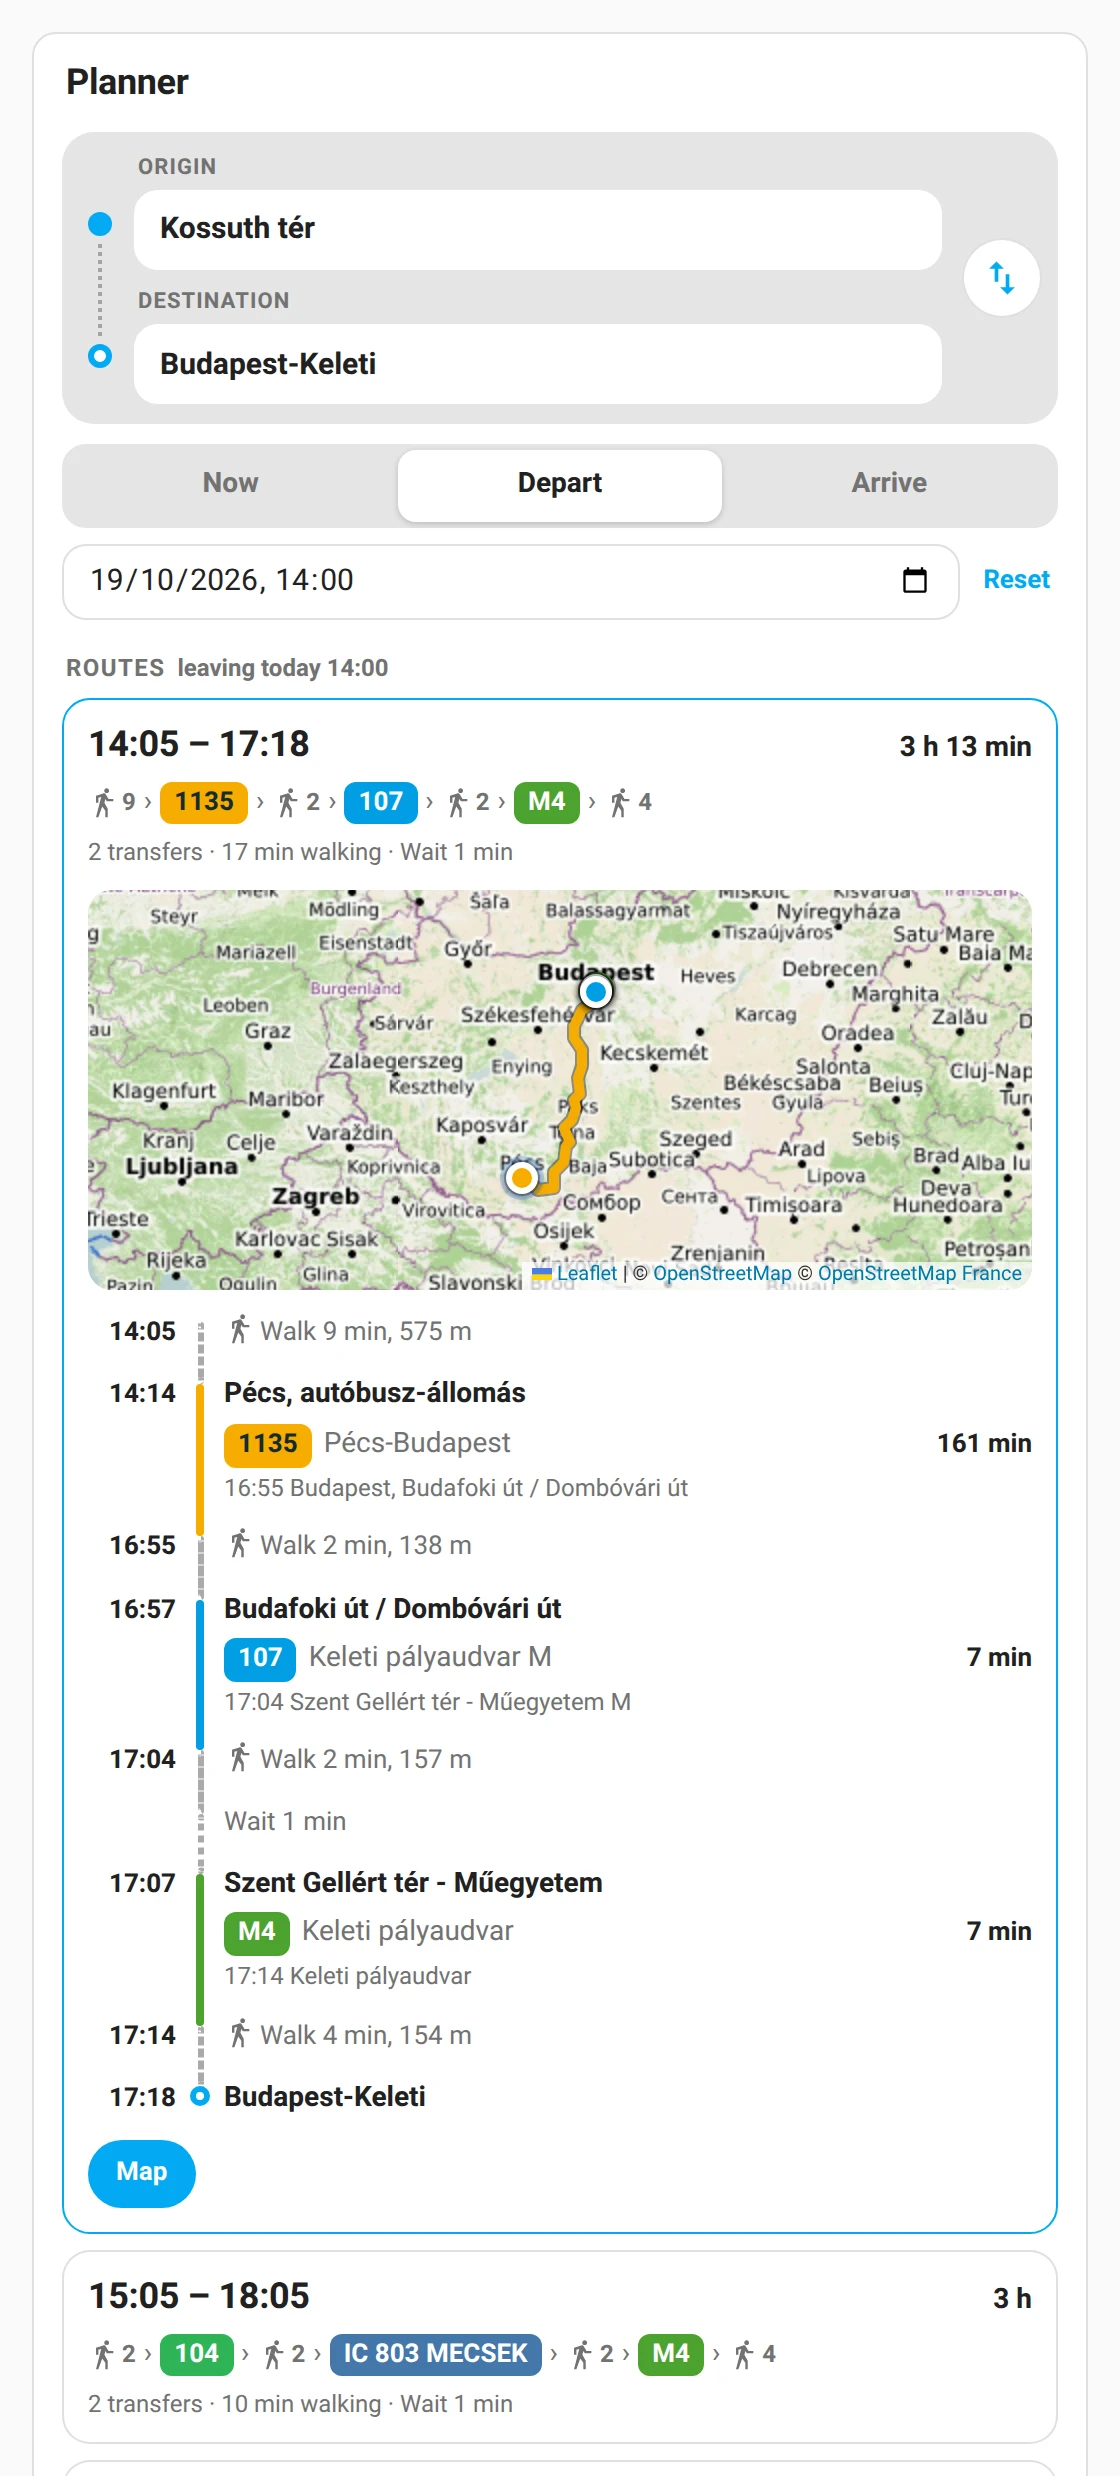
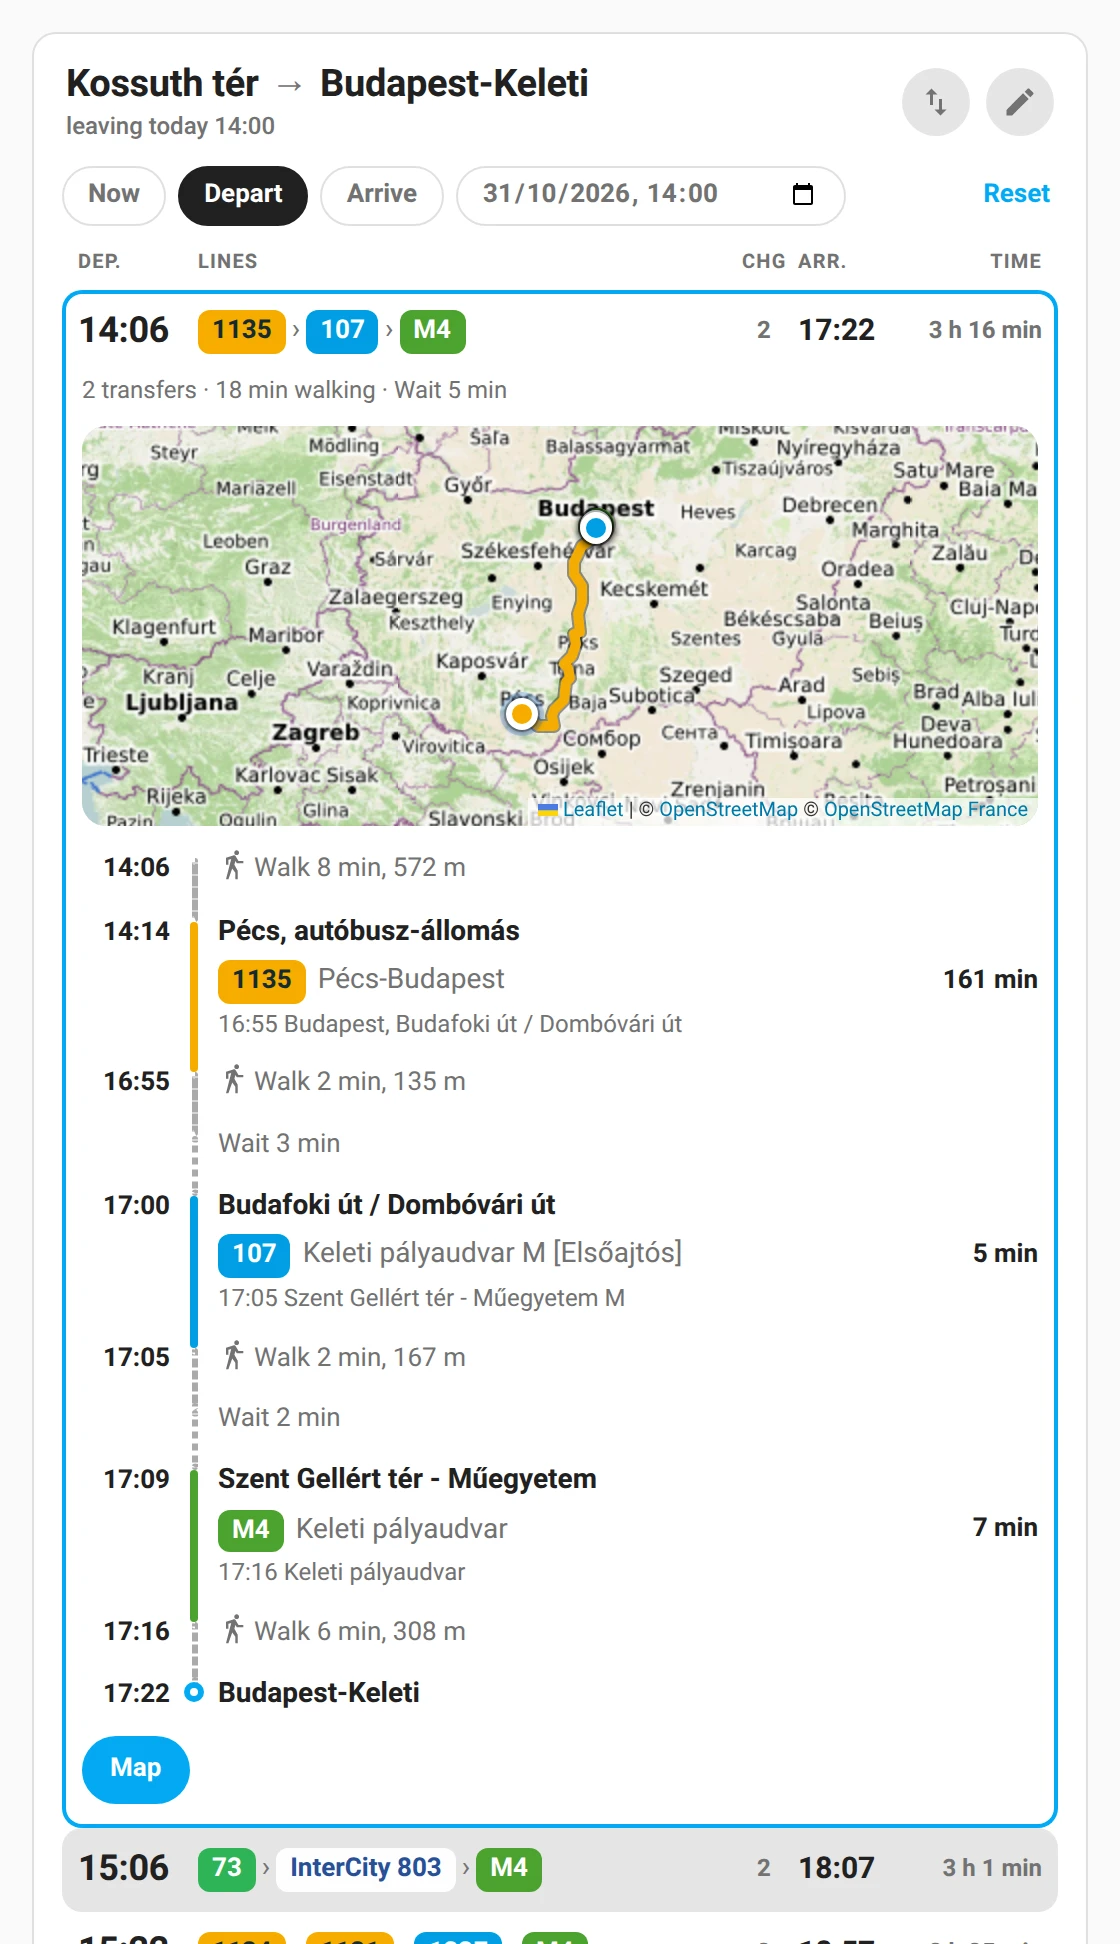
docs(manual): planner with the route as title and striped tables

diff --git a/docs/manual/README.hu.md b/docs/manual/README.hu.md
@@ -397,8 +397,12 @@ keverednek:
 
 ![A „Fő tér” keresése sok település főterét hozza](images/hu/planner-search.webp)
 
-A jobb oldali csere gomb (⇅) felcseréli a forrást és a célt. Az **Új**
-mindkettőt törli.
+Ha a forrás és a cél is megvan, a mezők összecsukódnak, és a kártya címe
+maga az útvonal lesz („Budapest-Keleti → Szeged”). Alatta kis betűvel áll,
+hogy mit mutat a kártya: az élő indulásokat vagy egy választott időpont
+útvonalait. A cím melletti csere gomb (⇅) felcseréli a forrást és a célt. A
+ceruza (✎) újra kinyitja a mezőket; a pipa (✓), egy új cél vagy egy csere
+ismét összecsukja őket. Az **Új** mindkettőt törli.
 
 ### 7.3 A saját javaslataid
 
@@ -416,10 +420,14 @@ választasz a leggyakrabban. Az előttük álló betű a hálózatot jelzi:
 
 ### 7.4 Most: élő indulások
 
+A cím alatti tablettasor választja ki, mit mutat a tervező: **Most**,
+**Indulás** vagy **Érkezés**, mellette az előretekintés vagy az időpont.
+
 **Most** állásban a tervező a két hely közötti összes közvetlen indulást
-mutatja, ugyanabban az elrendezésben, mint az indulási kártya, bármelyik
-üzemeltetőé is. Az **Előretekintés** mező állítja, milyen messzire néz előre. A
-**Térkép** az első indulás útvonalát rajzolja ki.
+mutatja csíkos táblában, ugyanazokkal az oszlopokkal, mint az indulási
+kártya, bármelyik üzemeltetőé is. A tabletták melletti legördülő (például
+**3 óra**) állítja, milyen messzire néz előre. A **Térkép** az első indulás
+útvonalát rajzolja ki.
 
 ![A tervező élő indulásai Kelenföldről Székesfehérvárra](images/hu/planner-now.webp)
 
@@ -446,9 +454,11 @@ egy útvonalat egy másik indulásban és érkezésben is megelőz, az kimarad.
 
 ![16:00 után induló útvonalak, összecsukva](images/hu/planner-depart.webp)
 
-Minden útvonalnál látszik az indulás és az érkezés, az időtartam, a
-vonalak színes jelzéssel és köztük a gyaloglás, az átszállások száma,
-valamint a gyaloglás és a várakozás ideje. Kattints egyre, hogy kinyíljon:
+Az útvonalak csíkos táblában állnak, soronként egy útvonal: **Indul**, a
+**Járatok** színes jelzéssel, az átszállások száma (**Át**), az **Érk.**
+(éjfél után +1 jelöléssel) és az **Idő**. Kattints egy sorra: helyben
+kinyílik, és mutatja az átszállások, a gyaloglás és a várakozás összegzését,
+a kis térképet és az idővonalat:
 
 ![Egy kinyitott útvonal térképpel és idővonallal](images/hu/planner-itinerary.webp)
 

diff --git a/docs/manual/README.md b/docs/manual/README.md
@@ -383,8 +383,12 @@ stops with the same name in different towns stay apart:
 
 ![Searching for "Fő tér" lists squares in many towns](images/en/planner-search.webp)
 
-The swap button (⇅) on the right exchanges origin and destination.
-**Reset** clears both.
+Once both are picked, the fields fold away and the card's title becomes the
+route itself ("Budapest-Keleti → Szeged"), with a small line under it saying
+what the card shows: the live board or the itineraries for a time. The swap
+button (⇅) beside the title exchanges origin and destination. The pencil (✎)
+opens the fields again; the tick (✓), a new destination or a swap folds them
+back. **Reset** clears both.
 
 ### 7.3 Your own suggestions
 
@@ -402,10 +406,13 @@ letter in front shows the network: **B** BKK, **M** MÁV, **V** Volán,
 
 ### 7.4 Now: the live board
 
+The row of pills under the title picks what the planner shows: **Now**,
+**Depart** or **Arrive**, then the look-ahead or the time.
+
 With **Now** selected, the planner shows every direct departure between the
-two places, in the same layout as the departure card, whichever operator
-runs it. **Look-ahead** sets how far ahead it looks. **Map** draws the first
-departure's route.
+two places as a striped table, with the same columns as the departure card,
+whichever operator runs it. The drop-down beside the pills (such as **3 h**)
+sets how far ahead it looks. **Map** draws the first departure's route.
 
 ![The planner's live board from Kelenföld to Székesfehérvár](images/en/planner-now.webp)
 
@@ -431,9 +438,10 @@ departure and arrival is left out.
 
 ![Itineraries leaving at 16:00, folded](images/en/planner-depart.webp)
 
-Each itinerary shows its departure and arrival times, its duration, the
-lines as coloured badges with walks in between, the number of transfers, and
-the walking and waiting time. Click one to open it:
+The itineraries are a striped table, one row each: **Dep.**, the **Lines**
+as coloured badges, the number of transfers (**Chg**), **Arr.** (marked +1
+after midnight) and **Time**. Click a row: it opens in place with a summary
+of transfers, walking and waiting, a small map and the timeline:
 
 ![One itinerary opened with its map and timeline](images/en/planner-itinerary.webp)
 
